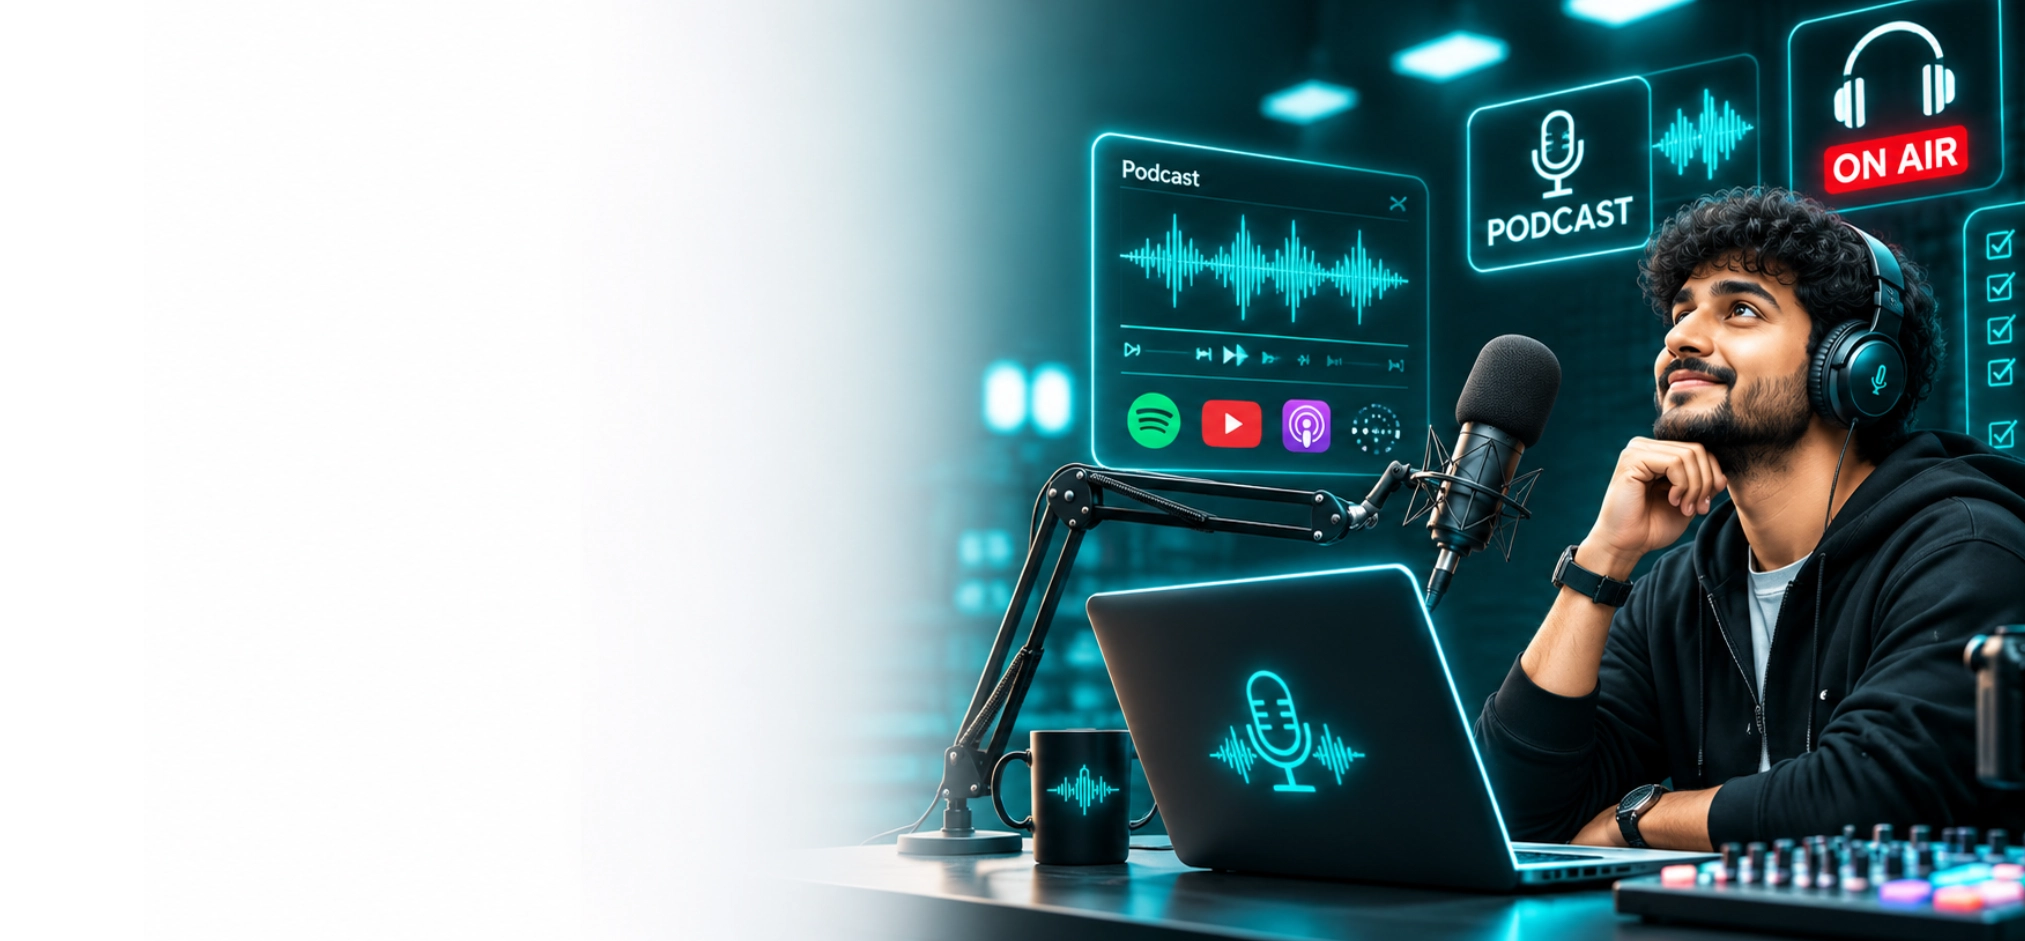
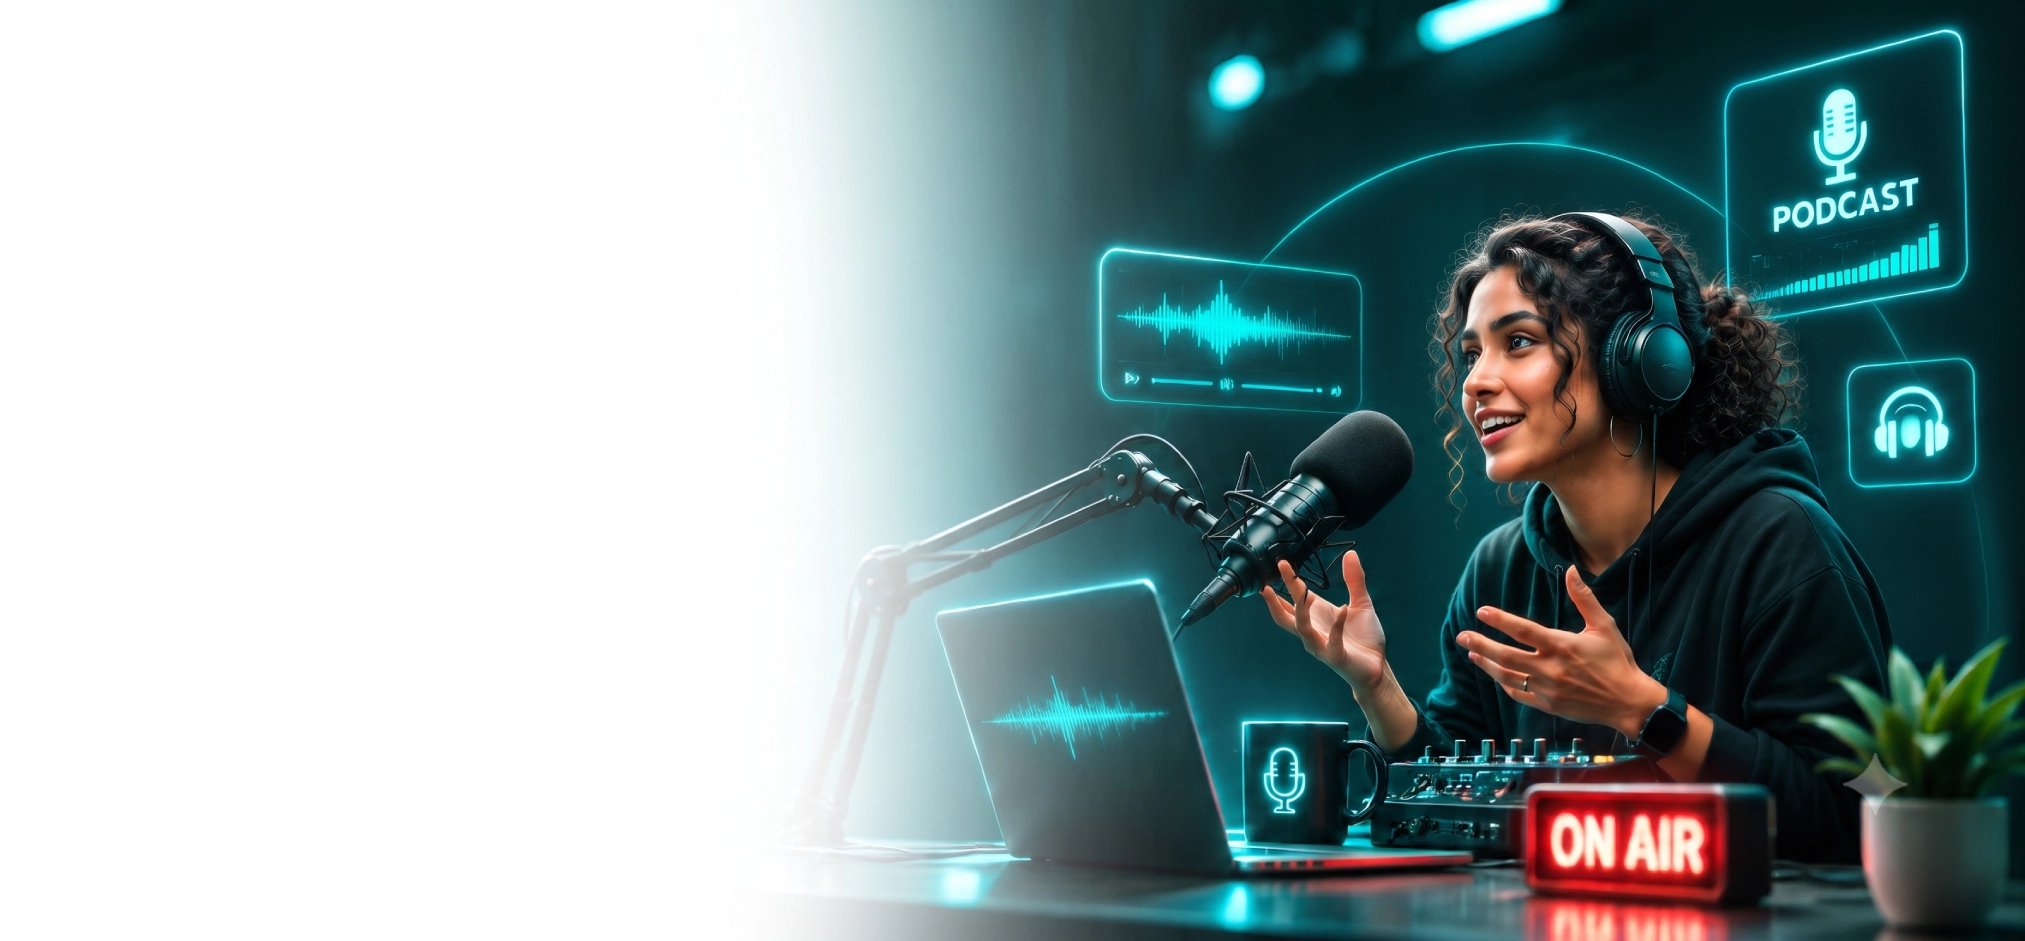
Hero: five programme images in line-up order, remove top-right glass curve
- hero-bg-1..5 replace the old slideshow images (one per programme)
- preloader uses hero-bg-1 (hero-bg.webp was renamed)

diff --git a/client/src/components/Hero.jsx b/client/src/components/Hero.jsx
@@ -2,10 +2,11 @@ import { useEffect, useLayoutEffect, useRef } from 'react';
 import { gsap } from 'gsap';
 import { ScrollTrigger } from 'gsap/ScrollTrigger';
 import { ArrowUpRight, Play } from 'lucide-react';
-import heroBg1 from '@assets/images/hero-bg.webp';
-import heroBg2 from '@assets/images/hero-bg-2.webp';
-import heroBg3 from '@assets/images/hero-bg-3.webp';
-import heroBg4 from '@assets/images/hero-bg-4.webp';
+import heroFilm from '@assets/images/hero-bg-1.webp';
+import heroPodcast from '@assets/images/hero-bg-2.webp';
+import heroBrand from '@assets/images/hero-bg-3.webp';
+import heroInfluencer from '@assets/images/hero-bg-4.webp';
+import heroMarketing from '@assets/images/hero-bg-5.webp';
 import content from '@shared/content.json';
 import { FeatureIcon } from './Icons.jsx';
 import { useLenisInstance } from '../hooks/useLenis.js';
@@ -15,12 +16,15 @@ gsap.registerPlugin(ScrollTrigger);
 
 const { hero, features } = content;
 
-// x = horizontal crop anchor: the people in images 2-4 sit at the far right edge
+// One image per programme, in line-up order.
+// x = horizontal crop anchor; in images 2-5 the person sits at the right edge, so anchor there.
+// fade = where the image starts fading in behind the copy (later on the busier images).
 const SLIDES = [
-  { src: heroBg1, x: '40%' },
-  { src: heroBg2, x: '100%', fade: '34%' },
-  { src: heroBg3, x: '100%', fade: '34%' },
-  { src: heroBg4, x: '100%', fade: '34%' },
+  { src: heroFilm, x: '40%' },
+  { src: heroPodcast, x: '100%', fade: '34%' },
+  { src: heroBrand, x: '100%', fade: '34%' },
+  { src: heroMarketing, x: '100%', fade: '34%' },
+  { src: heroInfluencer, x: '100%', fade: '34%' },
 ];
 const HOLD = 6; // seconds each background stays before the next one opens
 
@@ -240,7 +244,6 @@ export default function Hero({ ready }) {
               <stop offset="1" stopColor="#fff" stopOpacity="0.35" />
             </linearGradient>
           </defs>
-          <path d="M600 40C500 80 420 170 392 300l34 8C452 196 520 120 600 86Z" fill="url(#sw-a)" stroke="rgba(255,255,255,.7)" strokeWidth="1.2" />
           <path d="M600 600C470 640 370 740 330 900h80c40-130 110-210 190-246Z" fill="url(#sw-a)" stroke="rgba(255,255,255,.6)" strokeWidth="1.2" />
         </svg>
         <svg className="hero__swoosh hero__swoosh--left" viewBox="0 0 700 320" preserveAspectRatio="xMinYMax slice">

diff --git a/client/src/components/Preloader.jsx b/client/src/components/Preloader.jsx
@@ -1,6 +1,6 @@
 import { useLayoutEffect, useRef } from 'react';
 import { gsap } from 'gsap';
-import heroBg from '@assets/images/hero-bg.webp';
+import heroBg from '@assets/images/hero-bg-1.webp';
 import preloaderBg from '@assets/images/preloader-bg.jpg';
 import logoLight from '@assets/images/logo/ed-script-logo-light.png';
 import '../styles/preloader.css';

diff --git a/client/src/styles/navbar.css b/client/src/styles/navbar.css
@@ -105,6 +105,7 @@
   box-shadow: inset 0 1px 0 rgba(255, 255, 255, 0.9), 0 4px 14px -6px rgba(6, 59, 57, 0.35);
   transition: background 0.3s, transform 0.3s var(--ease-out);
 }
+
 .nav__burger:hover { background: rgba(255, 255, 255, 0.85); }
 .nav__burger:active { transform: scale(0.94); }
 
